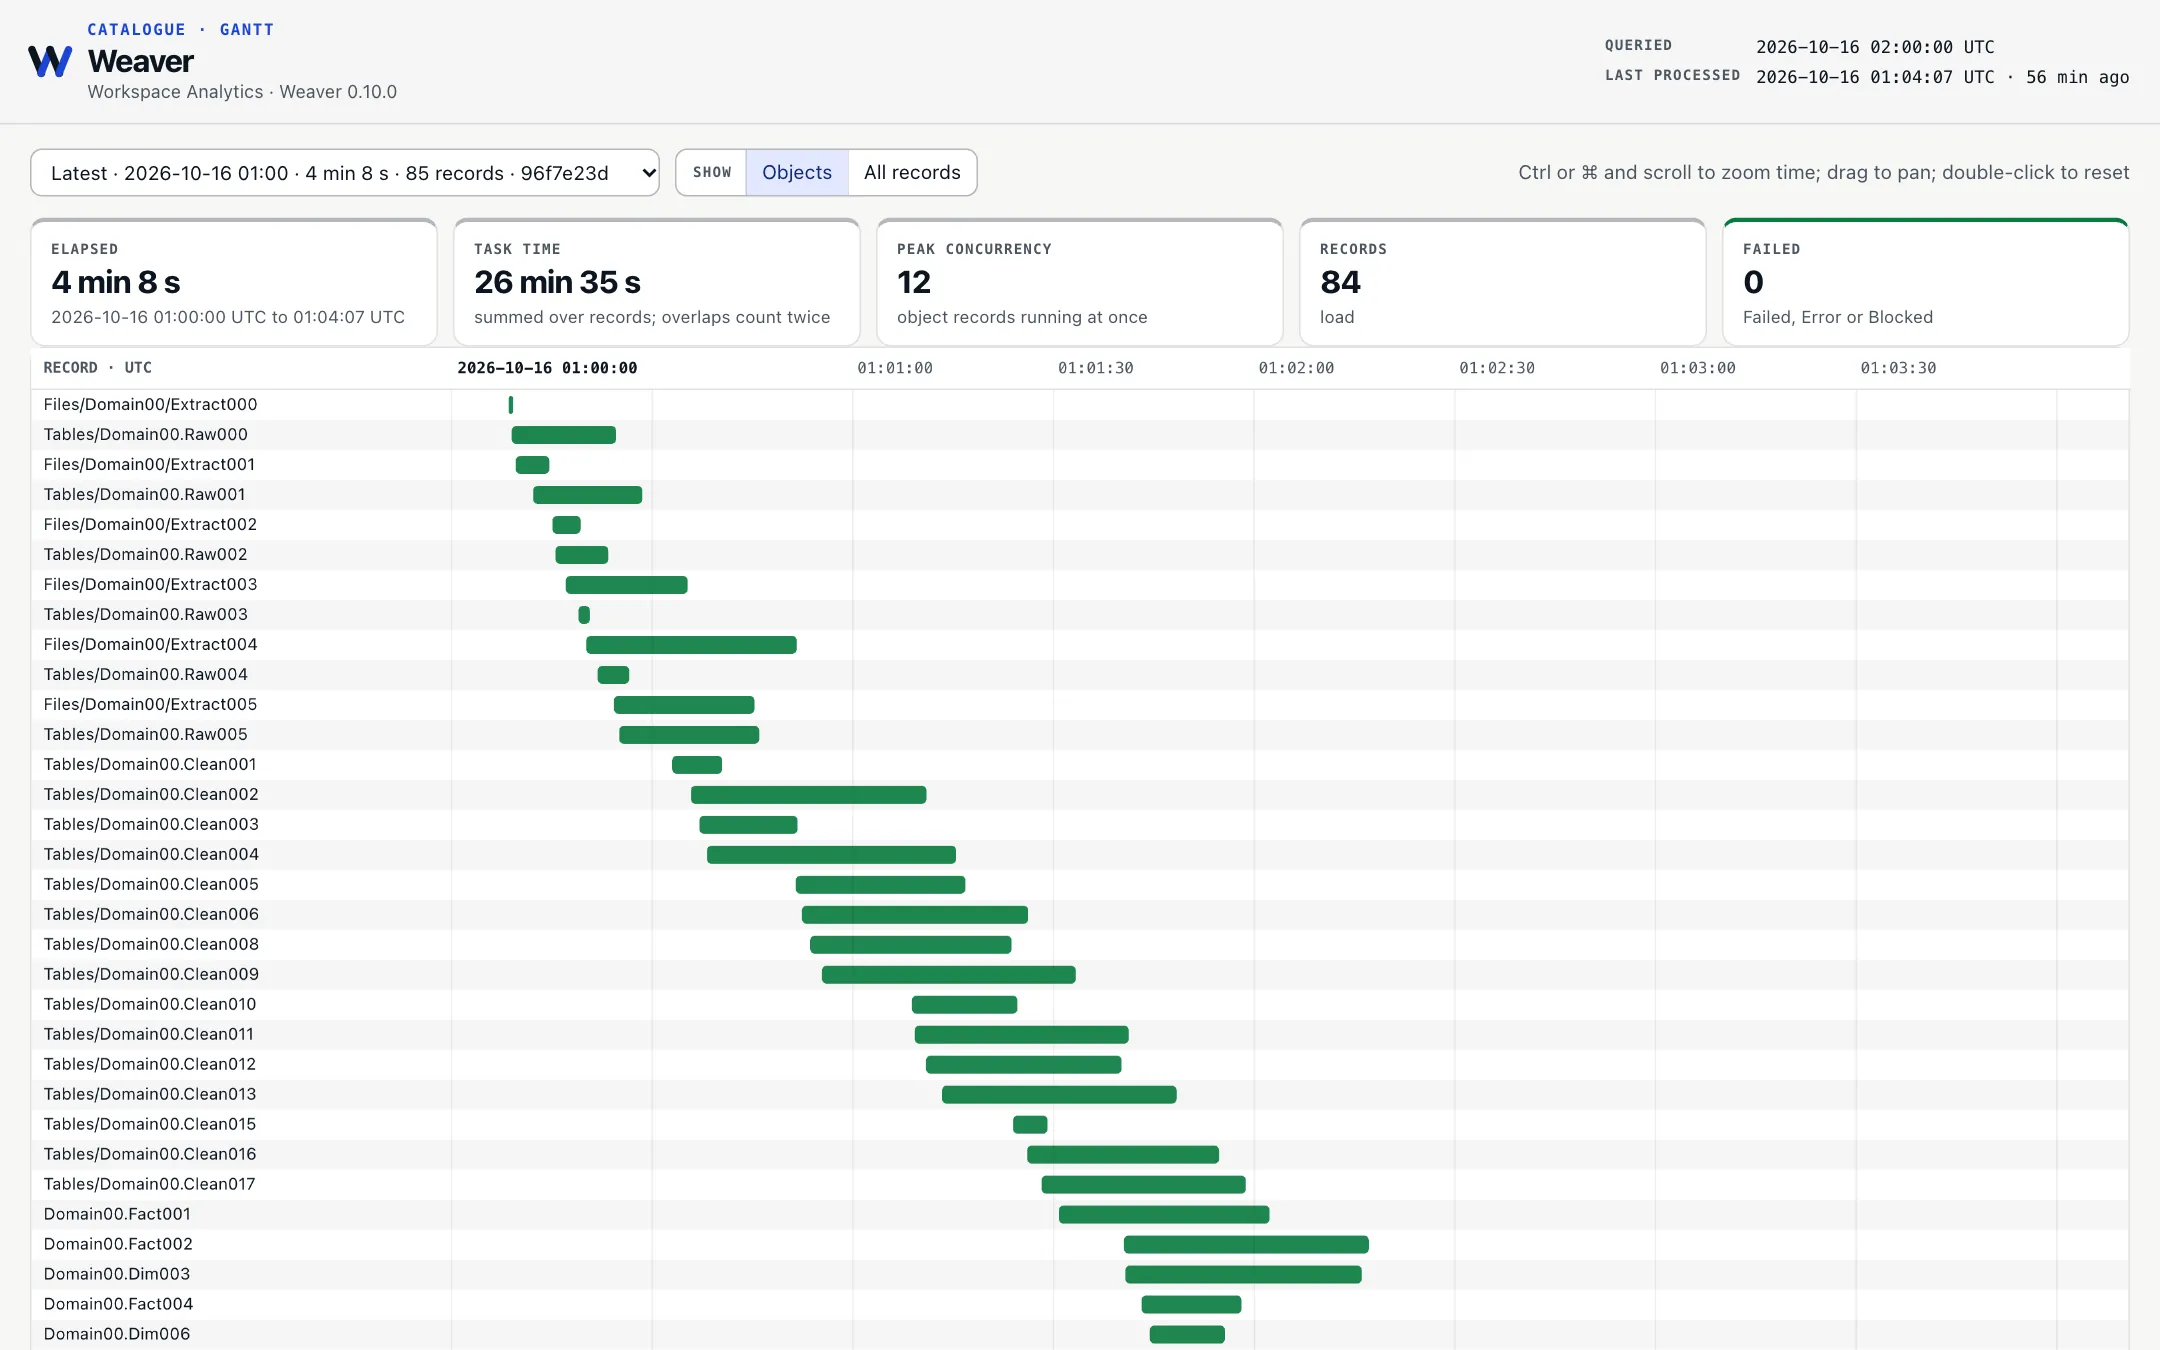
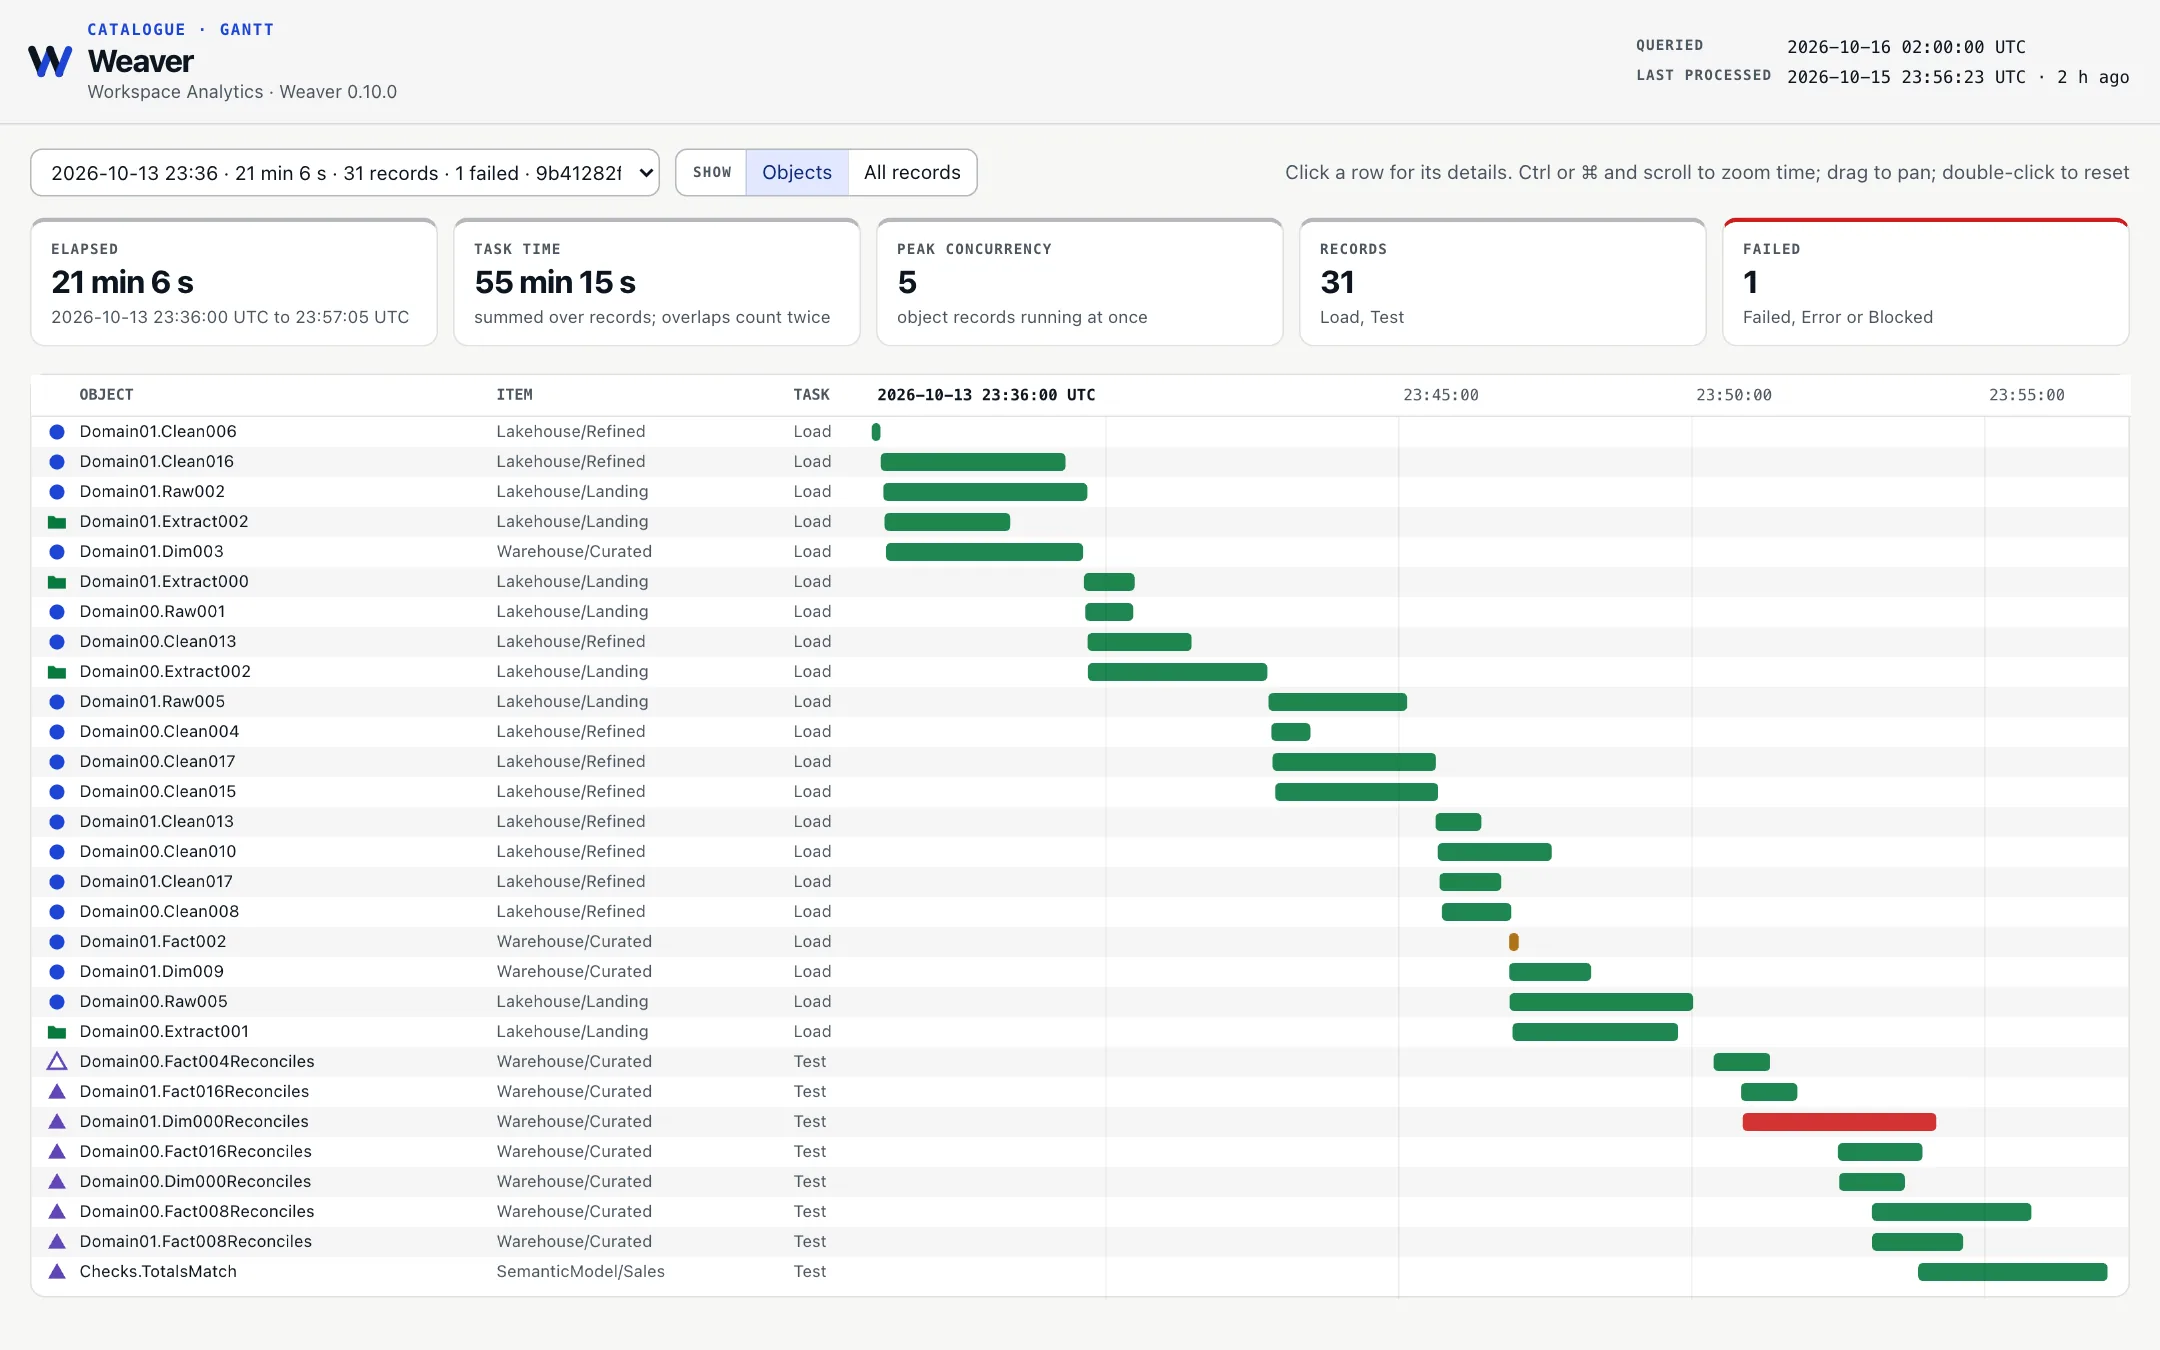
site: show Performance, the new Gantt and Orchestration, and say processed
Recaptured Overview, Orchestration and Gantt over the current estate and
added Performance. The fifth image sits centred under the grid.

diff --git a/docs/features/index.html b/docs/features/index.html
@@ -134,12 +134,12 @@
 <p class="group-lead">Weaver comes with a Power BI dashboard over the catalogue. One command deploys it beside your estate.</p>
 <figure class="feature-spotlight dashboard-spotlight" data-spotlight="catalogue-dashboard" aria-labelledby="dashboard-title">
 <h3 id="dashboard-title">The whole estate, at a glance.</h3>
-<div class="dashboard-gallery"><a href="https://docs.weaverstack.dev/estate/catalogue-dashboard/#overview"><img src="/assets/images/catalogue-dashboard/overview.webp" width="1440" height="900" loading="lazy" alt="Overview: installed items and Health."><span>Overview</span></a><a href="https://docs.weaverstack.dev/estate/catalogue-dashboard/#load-orchestration"><img src="/assets/images/catalogue-dashboard/orchestration.webp" width="1440" height="900" loading="lazy" alt="Load orchestration: one table's lineage, readiness and last outcome."><span>Load orchestration</span></a><a href="https://docs.weaverstack.dev/estate/catalogue-dashboard/#gantt"><img src="/assets/images/catalogue-dashboard/gantt.webp" width="1440" height="900" loading="lazy" alt="Gantt: one workflow's loads on a timeline."><span>Gantt</span></a><a href="https://docs.weaverstack.dev/estate/catalogue-dashboard/#entity-dictionary"><img src="/assets/images/catalogue-dashboard/entities.webp" width="1440" height="900" loading="lazy" alt="Entity dictionary: an ER diagram from declared keys."><span>Entity dictionary</span></a></div>
-<figcaption>Health, the Load orchestration graph, a Gantt of each workflow, load performance, an ER diagram with a metadata browser, and a bus matrix for every semantic model.</figcaption>
+<div class="dashboard-gallery"><a href="https://docs.weaverstack.dev/estate/catalogue-dashboard/#overview"><img src="/assets/images/catalogue-dashboard/overview.webp" width="1440" height="900" loading="lazy" alt="Overview: installed items and Health."><span>Overview</span></a><a href="https://docs.weaverstack.dev/estate/catalogue-dashboard/#orchestration"><img src="/assets/images/catalogue-dashboard/orchestration.webp" width="1440" height="900" loading="lazy" alt="Orchestration: one table's lineage, readiness and last outcome."><span>Orchestration</span></a><a href="https://docs.weaverstack.dev/estate/catalogue-dashboard/#performance"><img src="/assets/images/catalogue-dashboard/performance.webp" width="1440" height="900" loading="lazy" alt="Performance: each run as a bar from its start to its finish by time of day, with its Load and Test parts."><span>Performance</span></a><a href="https://docs.weaverstack.dev/estate/catalogue-dashboard/#gantt"><img src="/assets/images/catalogue-dashboard/gantt.webp" width="1440" height="900" loading="lazy" alt="Gantt: one workflow's loads and Tests on a timeline."><span>Gantt</span></a><a href="https://docs.weaverstack.dev/estate/catalogue-dashboard/#entity-dictionary"><img src="/assets/images/catalogue-dashboard/entities.webp" width="1440" height="900" loading="lazy" alt="Entity dictionary: an ER diagram from declared keys."><span>Entity dictionary</span></a></div>
+<figcaption>Health, the Orchestration graph, when each run started and finished, a Gantt of each workflow, an ER diagram with a metadata browser, and a bus matrix for every semantic model.</figcaption>
 <p class="spotlight-docs"><a href="https://docs.weaverstack.dev/estate/catalogue-dashboard/#the-pages">Try every page in the browser</a><span aria-hidden="true"> · </span><a href="https://docs.weaverstack.dev/estate/catalogue-dashboard/#deploy-the-dashboard">Deploy the Catalogue Dashboard</a></p>
 </figure><div class="feature-list">
 <div class="feature-row" data-feature="dashboard-deploy"><h3><a href="https://docs.weaverstack.dev/estate/catalogue-dashboard/#deploy-the-dashboard">One command</a></h3><p><code>weaver catalogue-dashboard</code> deploys the semantic model and Report beside the catalogue, and brings them up to date on the next run.</p></div>
-<div class="feature-row" data-feature="dashboard-live"><h3><a href="https://docs.weaverstack.dev/estate/catalogue-dashboard/#what-it-reads">Live over Direct Lake</a></h3><p>The model reads the catalogue’s tables over Direct Lake, so each page shows your Weaver-managed estate as work settles.</p></div>
+<div class="feature-row" data-feature="dashboard-live"><h3><a href="https://docs.weaverstack.dev/estate/catalogue-dashboard/#what-it-reads">Live over Direct Lake</a></h3><p>The model reads the catalogue’s tables over Direct Lake, so each page shows your Weaver-managed estate as work is processed.</p></div>
 <div class="feature-row" data-feature="dashboard-yours"><h3><a href="https://docs.weaverstack.dev/estate/catalogue-dashboard/">Free to tweak</a></h3><p>It is an ordinary Power BI Report. Tweak it to fit your needs, or throw it away and build your own over the catalogue.</p></div>
 </div>
 </div></section>

diff --git a/docs/assets/site.css b/docs/assets/site.css
@@ -443,6 +443,7 @@ table.matrix .note code { padding: 1px 4px; font-size: 12px; }
 .features-showcase .dashboard-gallery img { display: block; width: 100%; height: auto; border: 1px solid var(--line); border-radius: 10px; background: var(--paper); box-shadow: var(--shadow); }
 .features-showcase .dashboard-gallery span { display: block; margin-top: 10px; font-family: var(--mono); font-size: 12px; letter-spacing: .08em; text-transform: uppercase; color: var(--blue-dark); }
 .features-showcase .dashboard-gallery a:hover img { border-color: var(--line-strong); }
+.features-showcase .dashboard-gallery a:last-child:nth-child(odd) { grid-column: 1 / -1; width: calc(50% - 11px); justify-self: center; }
 .features-showcase [data-feature-group="5"] .feature-list { grid-template-columns: repeat(3, minmax(0, 1fr)); gap: 22px 28px; }
 .features-showcase .feature-spotlight > h3 { max-width: 36ch; margin: 0 0 24px; font-size: clamp(24px, 2.7vw, 30px); line-height: 1.2; }
 .features-showcase .feature-spotlight figcaption { max-width: var(--measure); color: var(--ink-soft); font-size: 15.5px; line-height: 1.6; margin-top: 20px; }
@@ -497,6 +498,7 @@ table.matrix .note code { padding: 1px 4px; font-size: 12px; }
  .features-showcase .dag-engine li:not(:last-child)::after { content: '↓'; right: auto; top: auto; bottom: -24px; }
  .features-showcase .warehouse-spotlight { padding: 22px 18px; }
  .features-showcase .select-engineering, .features-showcase .model-variants, .features-showcase .mirror-flow, .features-showcase .dashboard-gallery { grid-template-columns: 1fr; }
+ .features-showcase .dashboard-gallery a:last-child:nth-child(odd) { width: auto; }
  .features-showcase .generated-work ul { grid-template-columns: 1fr; }
  .features-showcase .engineering-arrow { font-size: 0; }
  .features-showcase .engineering-arrow::after { content: '↓'; font-size: 30px; }
